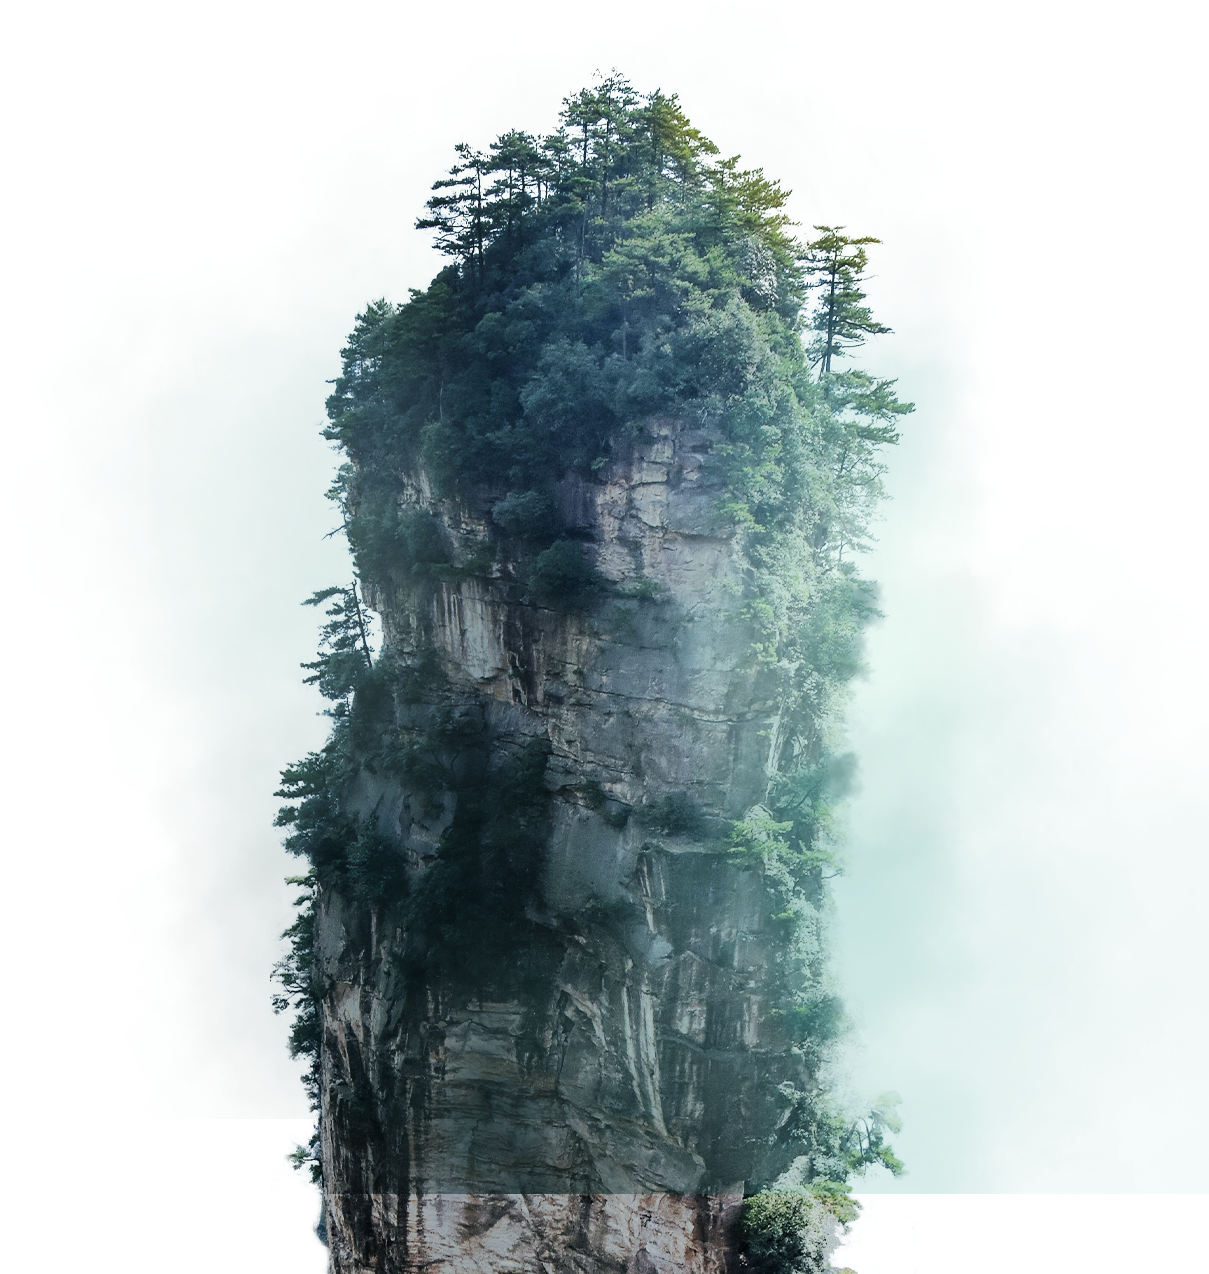
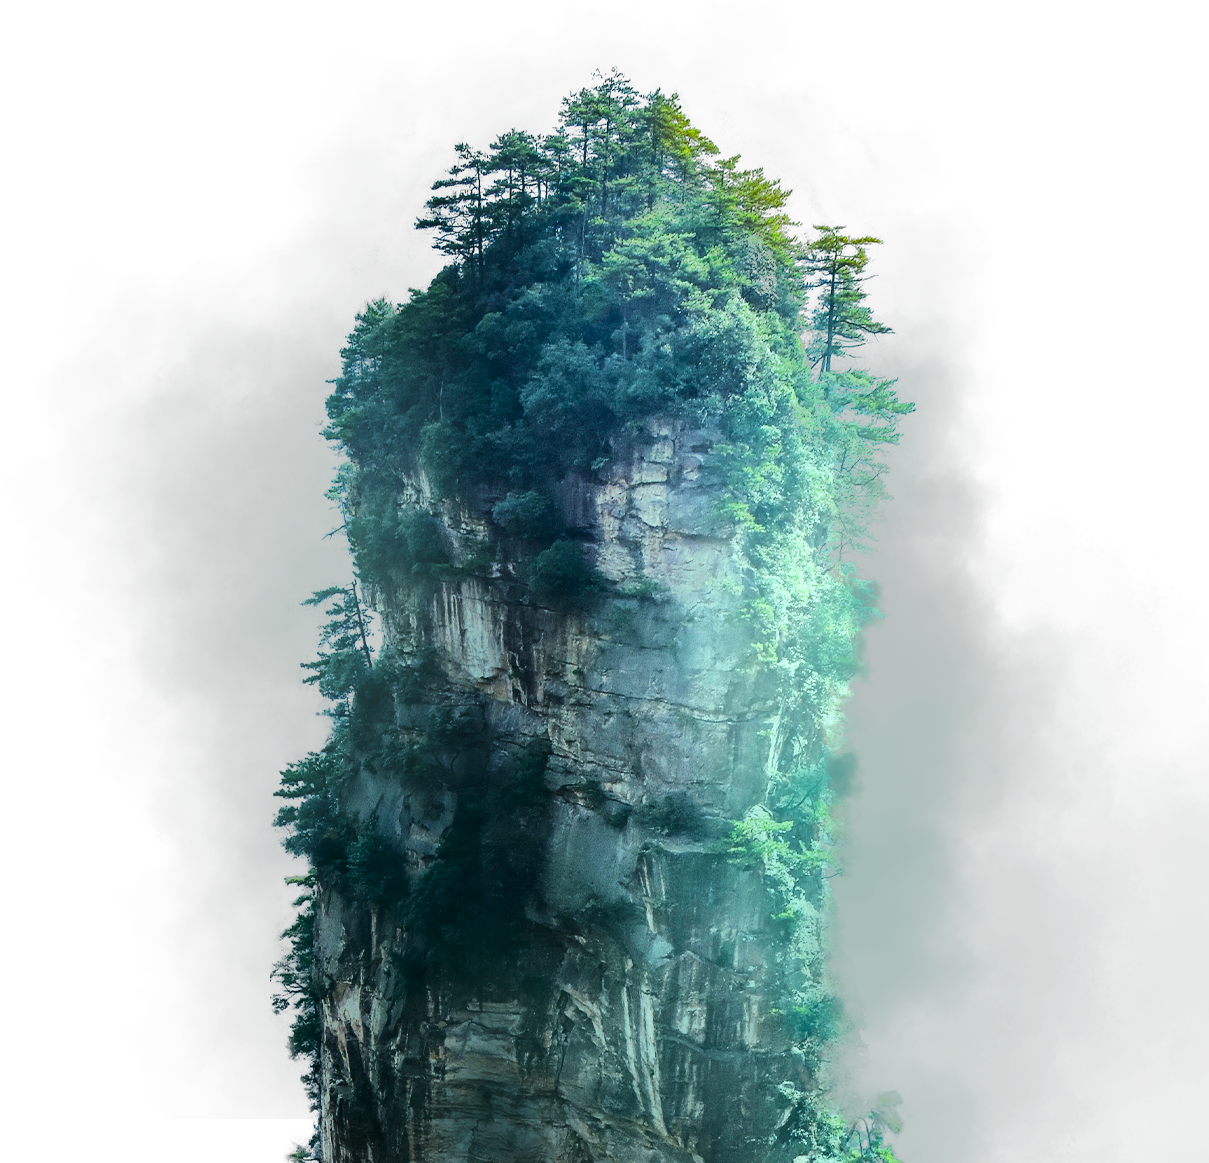
Edited images

diff --git a/CSS/style.css b/CSS/style.css
@@ -32,7 +32,6 @@ body {
     font-family: 'Montserrat', sans-serif;
     line-height: 1.7;
     color: var(--color-white);
-    background: var(--color-bg);
 }
 
 .Synapse-logo{
@@ -165,6 +164,7 @@ main {
     top: calc(50% - 390px);
     left: calc(50% + 10px);
     z-index: 1;
+    transform: translate(-50%, -50%);
 }
 .fog-7{
     position: absolute;
@@ -172,6 +172,7 @@ main {
     top: calc(50% - 100px);
     left: calc(50% + 300px);
     width: 1900px; 
+    transform: translate(-50%, -50%);
 }
 .mountain-10{
     position: absolute;
@@ -179,6 +180,7 @@ main {
     top: calc(50% + 69px);
     width: 870px;
     left: calc(50% + 230px);
+    transform: translate(-50%, -50%);
 }
 .fog-2
 { 
@@ -187,6 +189,7 @@ main {
     top: calc(50% + 95px);
     left: calc(50% + 7px);
     width: 1833px;
+    transform: translate(-50%, -50%);
 }   
 
 .mountain-9{
@@ -195,6 +198,7 @@ main {
     top: calc(50% + 119px); 
     width: 463px;
     left: calc(50% - 457px);
+    transform: translate(-50%, -50%);
 }
 
 .mountain-8{
@@ -203,6 +207,7 @@ main {
     top: calc(50% + 96px);
     width: 786px;
     left: calc(50% - 202px);
+    transform: translate(-50%, -50%);
 }
 
 .fog-3{
@@ -211,6 +216,7 @@ main {
     top: calc(50% + 171px);
     left: calc(50% + 29px);
     width: 449px;
+    transform: translate(-50%, -50%);
 }
 
 .mountain-7
@@ -219,6 +225,7 @@ main {
     width: 515px;
     top: calc(50% + 134px);
     left: calc(50% + 305px);
+    transform: translate(-50%, -50%);
 }  
 .text{
     position: absolute;
@@ -245,6 +252,7 @@ main {
     top: calc(50% + 86.5px);
     width: 383.5px;
     left: calc(50% + 590px);
+    transform: translate(-50%, -50%);
 }
 .fog-4{
     position: absolute;
@@ -252,6 +260,7 @@ main {
     top: calc(50% + 242px);
     left: calc(50% - 64px);
     width: 543px;
+    transform: translate(-50%, -50%);
 }
 
 .mountain-5{
@@ -260,6 +269,7 @@ main {
     top: calc(50% + 269px);
     width: 583px;
     left: calc(50% + 130px);
+    transform: translate(-50%, -50%);
 }
 
 .fog-5{
@@ -267,7 +277,9 @@ main {
     z-index: 13;
     top: calc(50% + 149px);
     left: calc(50% - 28px);
-    width: 1435px;}
+    width: 1435px;
+    transform: translate(-50%, -50%);
+}
 
 .mountain-4{
     position: absolute;
@@ -275,6 +287,7 @@ main {
     top: calc(50% + 221px);
     width: 717px;
     left: calc(50% - 381.5px);
+    transform: translate(-50%, -50%);
 }
 
 .mountain-3{
@@ -283,6 +296,7 @@ main {
     top: calc(50% + 133px);
     left: calc(50% + 736px);
     width: 419px;
+    transform: translate(-50%, -50%);
 }
 
 .fog-6{
@@ -291,6 +305,7 @@ main {
     top: calc(50% + 177px);
     left: calc(50% - 30px);
     width: 1418px;
+    transform: translate(-50%, -50%);
 }
 .mountain-2{
     position: absolute;
@@ -298,6 +313,7 @@ main {
     top: calc(50% + 188px);
     left: calc(50% + 412px);
     width: 625px;
+    transform: translate(-50%, -50%);
 }
 .mountain-1{
     position: absolute;
@@ -305,6 +321,7 @@ main {
     top: calc(50% + 91.5px);
     left: calc(50% - 601px);
     width: 450px;
+    transform: translate(-50%, -50%);
 }
 .sun-rays{
     position: absolute;
@@ -312,13 +329,14 @@ main {
     top: 0;
     right: 0;
     width: 595px;
+    transform: translate(-50%, -50%);
 }
-.black-shadow{
+.black-shadow {
     position: absolute;
     z-index: 20;
     bottom: 0;
     right: 0;
-    width: 100%;
+    width: 100vw;
     transform: translate(-50%, -50%);
 }
 .fog-1{

diff --git a/index.html b/index.html
@@ -16,7 +16,7 @@
 <body>
     <nav>
         <div class="container nav__container">
-            <a href="index.html"><img src="images\Synapse logo.png" class="Synapse-logo"><!--<h3>Synapse</h3>--></a>
+            <a href="index.html"><img src="images\Synapse logo.png" class="Synapse-logo"></a>
             <ul class="nav__menu">
                 <li><a href="index.html">Home</a></li>
                 <li><a href="about.html">About</a></li>
@@ -52,7 +52,7 @@
         <img src="images/mountain_2.png" data-speedx="0.0235" data-speedy="0.013"  data-speedz="0.42" data-rotation = "0.15" class="parallax mountain-2">
         <img src="images/mountain_1.png" data-speedx="0.027" data-speedy="0.018" data-speedz="0.53" data-rotation = "0.2" class="parallax mountain-1">
         <img src="images/sun_rays.png" class="sun-rays">
-        <img src="images/black_shadow.png" class="black-shadow">
+        <!--<img src="images/black_shadow.png" class="black-shadow">-->
         <img src="images/fog_1.png" data-speedx="0.12" data-speedy="0.01" data-speedz="0" class="parallax fog-1">
     </main>
 <script src="app.js"></script>
